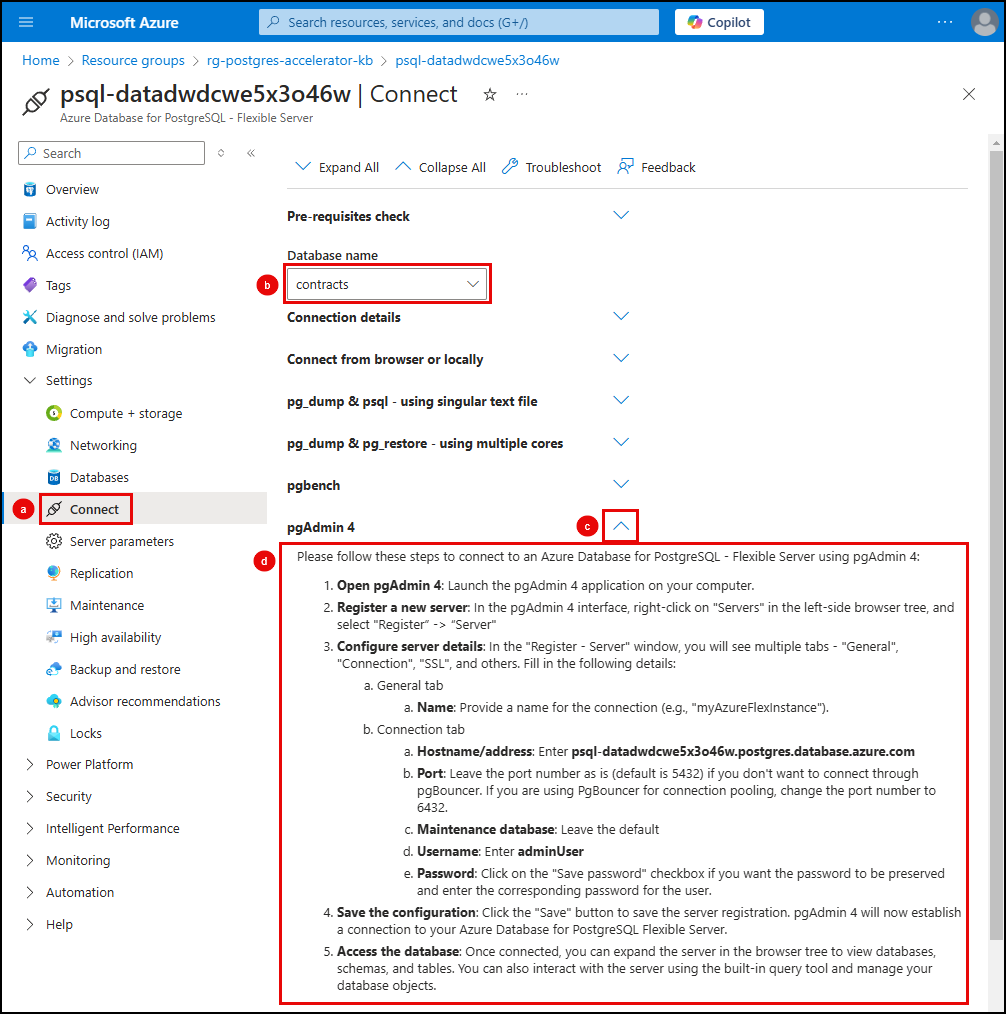
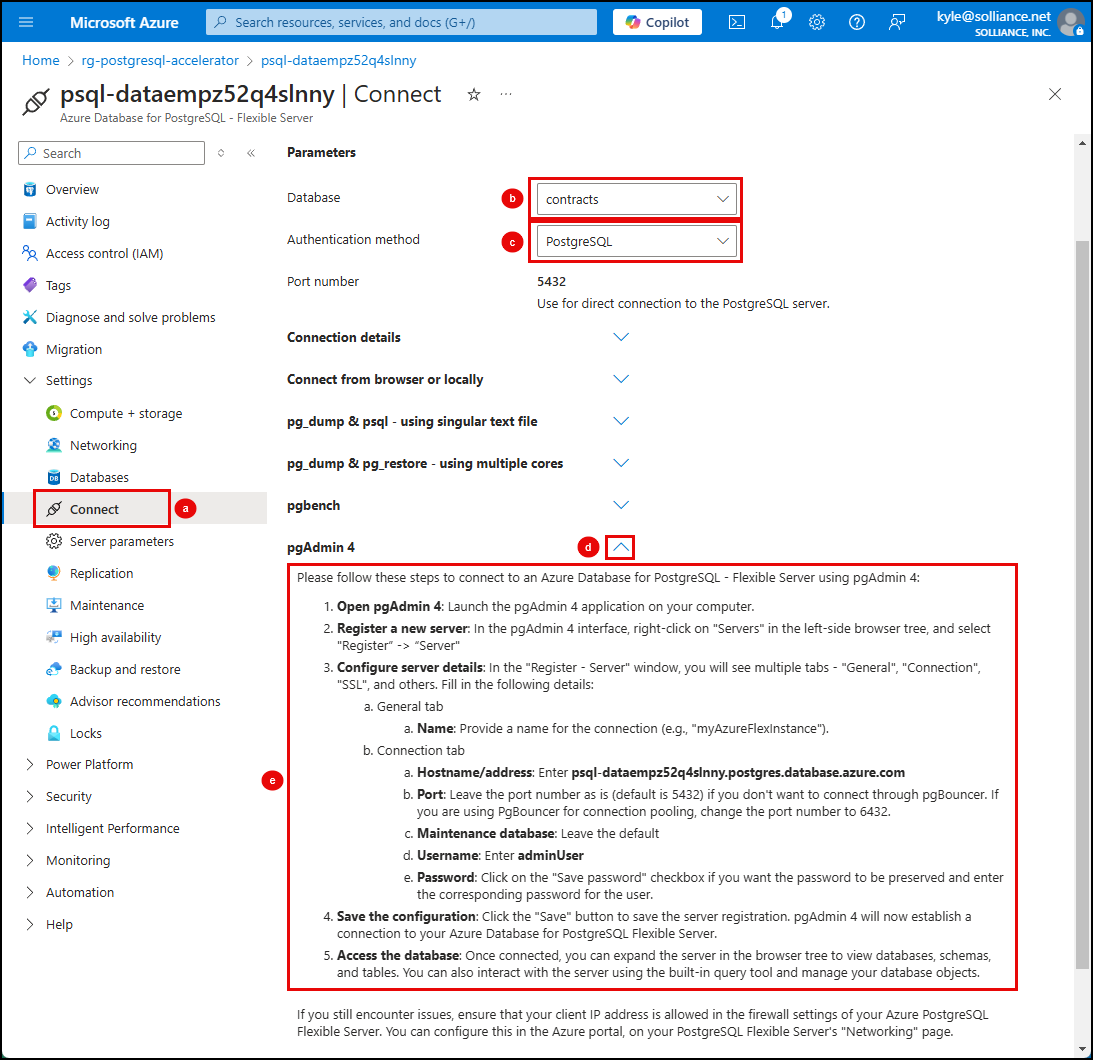
Adding step to pick Postgres auth method

Changed region(s): [[0.0, 0.0, 1.0, 1.0], [0.8628, 0.0, 1.0, 0.0611], [0.2465, 0.7032, 0.2773, 0.7643]]

diff --git a/docs/workshop/docs/02-Setup/1-Provision-And-Setup/01-Self-Guided.md b/docs/workshop/docs/02-Setup/1-Provision-And-Setup/01-Self-Guided.md
@@ -396,10 +396,11 @@ You will need to install the required software locally and provision the Azure i
 
     1. Navigate to your Azure Database for PostgreSQL - Flexible Server resource in the [Azure portal](https://portal.azure.com/).
     2. On the Azure Database for PostgreSQL - Flexible Server page:
-       1. Select **Connect** under **Settings** in the left-hand resource menu.
-       2. Select the **contracts** database from the **Database name** dropdown.
-       3. Expand the **pgAdmin 4** block.
-       4. Follow the steps provided to connect to your database from pgAdmin.
+          1. Select **Connect** under **Settings** in the left-hand resource menu.
+          2. Select the **contracts** database from the **Database name** dropdown.
+          3. Select **PostgreSQL** for the **Authentication method**.
+          4. Expand the **pgAdmin 4** block.
+          5. Follow the steps provided to connect to your database from pgAdmin.
 
         ![Screenshot of the steps to connect to Azure Database for PostgreSQL - Flexible Server from pgAdmin](../../img/connect-to-pgadmin.png)
 
